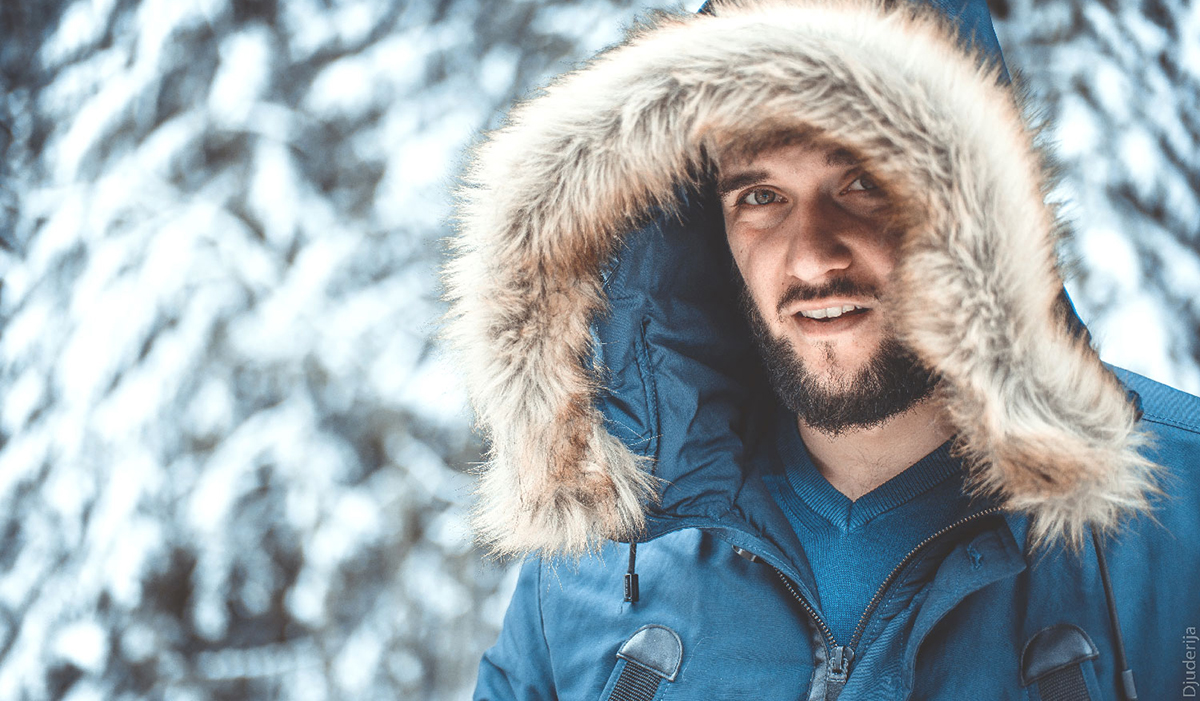
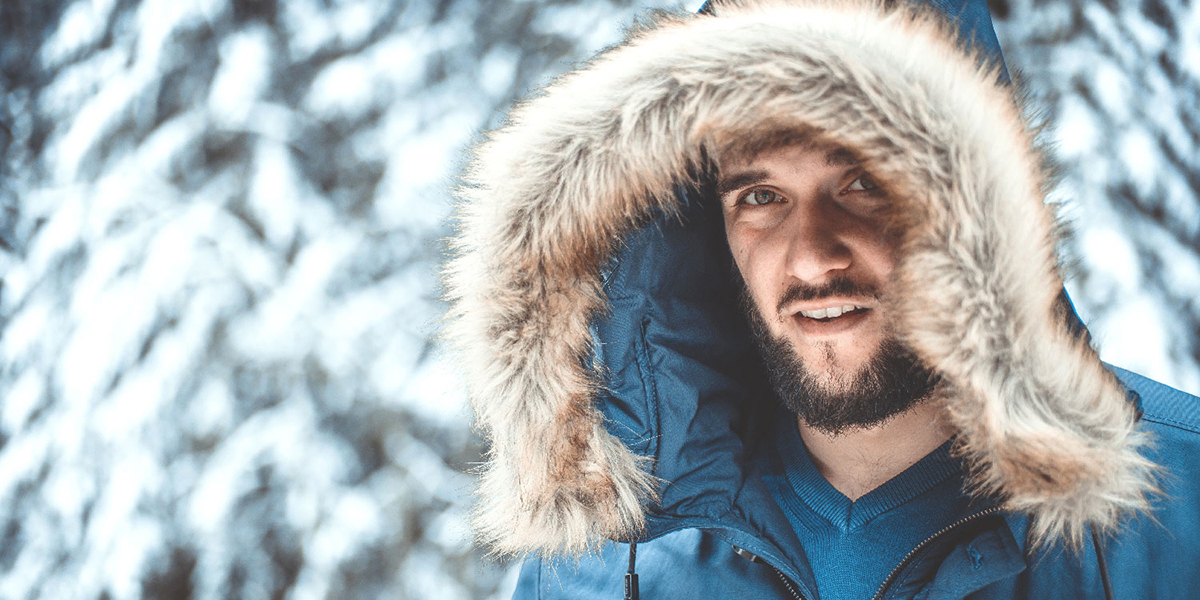
update 0410 bootstrap

diff --git a/html263/0409-boostrap.html b/html263/0409-boostrap.html
@@ -8,62 +8,76 @@
 </head>
 
 <body>
-    <div class="nav">
-        <ul class="pull-left">
-            <li><a href="#">Home</a></li>
-            <li><a href="#">About us</a></li>
-            <li><a href="#">Service</a></li>
-            <li><a href="#">Contact us</a></li>
+    <div class="nav" style="margin-top: 4px;margin-right: 20px;">
+        <div><img src="images/RSI-logo-155x100.png " alt="rsi logo" style="margin-left: 20px;" width="130px;"></div>
+        <ul class="pull-left " style=" margin-left: 20px; color: gray;">
+            <li>Reliable Source Industrial</li>
         </ul>
-        <ul class="pull-right">
-            <li><a href="#">Sign Up</a></li>
-            <li><a href="#">Log In</a></li>
-            <li><a href="#">Help</a></li>
+        <ul class="pull-right ">
+            <li><a href="# ">HOME</a></li>
+            <li><a href="# ">ABOUT US</a></li>
+            <li><a href="# ">SERVICE</a></li>
+            <li><a href="# ">CONTACT US</a></li>
+            <li><a href="# ">SIGN UP</a></li>
+            <li><a href="# ">LOG IN</a></li>
+            <li><a href="# ">HELP</a></li>
         </ul>
     </div>
-    <div class="jumbotron">
-        <h1 style="margin-top: 240px; padding-left: 50px;"> CRUSHING YOUR GOAL</h1>
-        <p style="padding-left: 50px;">Rent from people in over 34,000 cities and 192 countries.</p>
-        <a class="btn btn-defalt btn-sm" style="padding-left: 50px;">Learn More</a>
+    <div class="jumbotron ">
+        <h1 style="margin-top: 220px; padding-left: 50px; "> CRUSHING YOUR GOAL</h1>
+        <p style="padding-left: 50px; ">Rent from people in over 34,000 cities and 192 countries.</p>
+        <a class="btn btn-link btn-xs " style="margin-left:45px; font-size: 14px;color: gray; ">Learn More ></a>
     </div>
-    <div class="neighborhood-guides">
-        <div class="container">
-            <h2>Neighborhood Guides</h2>
+    <div class="neighborhood-guides ">
+        <div class="container " style="margin-top: 20px;padding: 40px; ">
+            <h2>PRODUCTS DEVELOPMENT</h2>
             <p>
-                Not sure where to stay? We've created neighborhood guides for cities all around the world.
+                Founded in 1972, RSI is one of the leading manufacturers of sportswear and swimwear apparel in Asia. We have built a reputation for delivering reliability, accountability and innovation to our clients and partners in the apparel industry.
             </p>
-            <div class="row">
-                <div class="col-md-4">
-                    <div class="thumbnail"><img src="http://goo.gl/0sX3jq"></div>
-                    <div class="thumbnail">
-                        <img src="http://goo.gl/an2HXY">
+            <div class="row ">
+                <div class="col-md-4 ">
+                    <div class="thumbnail "><img src="images/RSI-home-360X165-1.png " alt="RSI-product1 "></div>
+                    <div class="thumbnail ">
+                        <img src="images/RSI-home-360X165-2.png " alt="RSI-product2 ">
                     </div>
                 </div>
-                <div class="col-md-4">
-                    <div class="thumbnail">
-                        <img src="http://goo.gl/Av1pac"></div>
-                    <div class="thumbnail">
-                        <img src="http://goo.gl/vw43v1"></div>
+                <div class="col-md-4 ">
+                    <div class="thumbnail ">
+                        <img src="images/RSI-home-360X165-3.png " alt="RSI-product3 "></div>
+                    <div class="thumbnail ">
+                        <img src="images/RSI-home-360X165-4.png " alt="RSI-product4 "></div>
                 </div>
-                <div class="col-md-4">
-                    <div class="thumbnail">
-                        <img src="http://goo.gl/0Kd7UO"></div>
+                <div class="col-md-4 ">
+                    <div class="thumbnail ">
+                        <img src="images/RSI-home-356X360-5.png " alt="RSI-product5 "></div>
                 </div>
             </div>
         </div>
     </div>
-    <div class="learn-more">
-        <div class="container">
-            <h3>Travel</h3>
-            <p>From apartments and rooms to treehouses and boats: stay in unique spaces in 192 countries.</p>
-            <p><a href="#">See how to travel on Airbnb</a></p>
-            <h3>Host</h3>
-            <p>Renting out your unused space could pay your bills or fund your next vacation.</p>
-            <p><a href="#">Learn more about hosting</a></p>
-            <h3>Trust and Safety</h3>
-            <p>From Verified ID to our worldwide customer support team, we've got your back.</p>
-            <p><a href="#">Learn about trust at Airbnb</a></p>
+    <div class="learn-more " style="background-color: #e5e5e5; margin-top: 20px; padding: 40px; ">
+        <div class="container ">
+            <div class="row ">
+                <div class="col-md-4 ">
+                    <h3>CLIENTS</h3>
+                    <p>World's leading brands and retailers who work with us.
+                    </p>
+                    <p><a href="# ">See how to travel on Airbnb</a></p>
+                </div>
+                <div class="col-md-4 ">
+                    <h3>SERVICE</h3>
+                    <p>Renting out your unused space could pay your bills or fund your next vacation.</p>
+                    <p><a href="# ">Learn more about hosting</a></p>
+                </div>
+                <div class="col-md-4 ">
+                    <h3>CONTACT US</h3>
+                    <p>From Verified ID to our worldwide customer support team, we've got your back.</p>
+                    <p><a href="# ">Learn about trust at Airbnb</a></p>
+                </div>
+            </div>
         </div>
+    </div>
+    <div align="center " style="margin-top: 20px; margin-bottom: 20px;">
+        <a href="http://kellykuo.github.io/html263/index.html ">back to Kelly Homework</a>
     </div>
 </body>
 

diff --git a/html263/styles/main.css b/html263/styles/main.css
@@ -1,32 +1,48 @@
-.nav a{
-	color: gray;
-	font-size: 14px;
-	font-weight: bold;
-	padding: 20px 10px;
-
-}
-.nav li{
-	display: inline-block;
+.nav a {
+    color: gray;
+    font-size: 14px;
+    font-weight: thin;
+    padding: 2px;
+    margin: 12px;
+    text-decoration: none;
 }
 
-.jumbotron{
-	background-image: url(../images/banner-1500x912-color-5.jpg);
-	height: 650px;
-	background-repeat: no-repeat;
-	background-size: cover;
+a:hover {
+    font-size: 14px;
+    color: #3366CC;
+    border-bottom: solid;
+    border-width: 2px;
+    text-decoration: none;
+}
 
+.nav li {
+    display: inline-block;
 }
-.jumbtron .container{
-	position: relative;
-	top: 100px;
-}
-.jumbotron h1{
-	color: white;
-	font-size: 58px;
-	font-weight: bold;
 
+.jumbotron {
+    background-image: url(../images/banner-1500x912-color-5.jpg);
+    height: 560px;
+    background-repeat: no-repeat;
+    background-size: cover;
 }
-.jumbotron p{
-	font-size: 24px;
-	color:black;
+
+.jumbtron .container {
+    position: relative;
+    top: 100px;
+}
+
+.jumbotron h1 {
+    color: white;
+    font-size: 48px;
+    font-weight: bold;
+}
+
+.jumbotron p {
+    font-size: 20px;
+    color: #3366CC;
+    font-weight: bold;
+}
+
+h2 {
+    color: #3366CC;
 }
